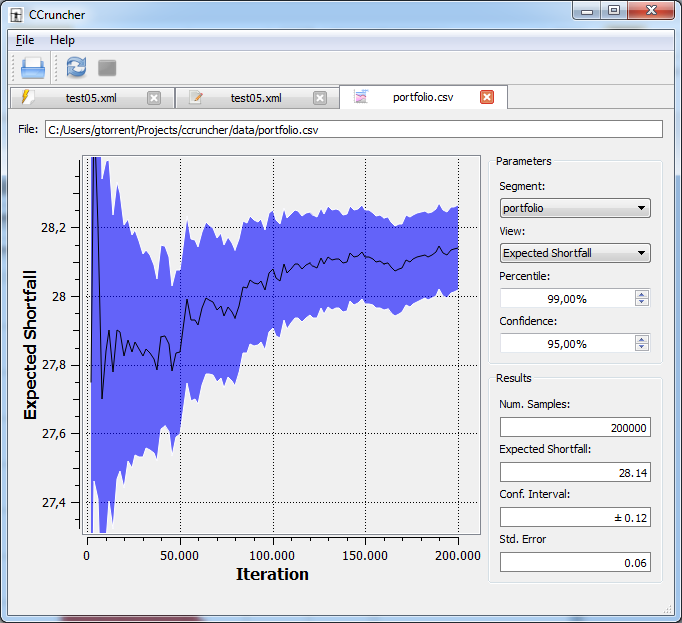
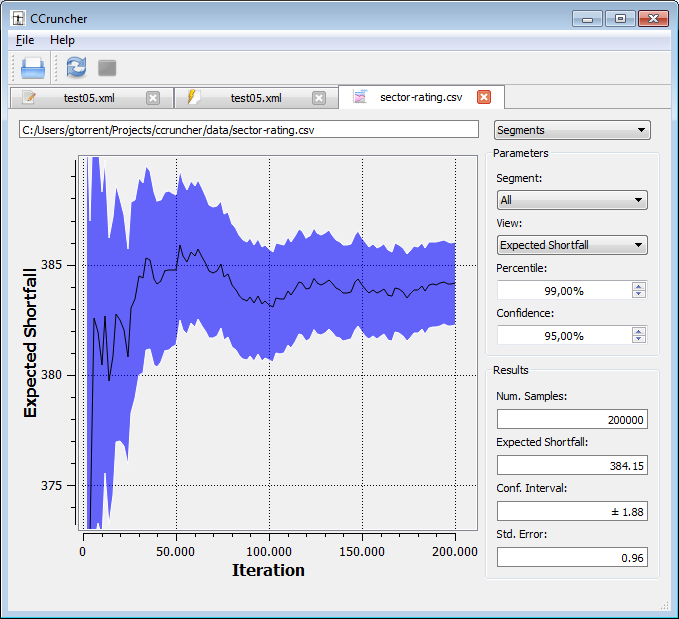
added drag-and-drop feature in gui + aggregation in html doc

diff --git a/doc/html/gstarted.html b/doc/html/gstarted.html
@@ -77,7 +77,7 @@
 
     <ol>
       <li><a href="#first_steps">First steps</a></li>
-      <li><a href="#segmentations">Using segmentations</a></li>
+      <li><a href="#analysis">Risk analysis</a></li>
       <li><a href="#macros">Using macros</a></li>
       <li><a href="#command_line">Using command line</a></li>
       <li><a href="#flying_solo">Flying solo</a></li>
@@ -89,7 +89,7 @@
     <a name="first_steps"></a>
     <h2>1. First steps</h2>
     <p>
-      Follow these steps to install CCruncher and discover its capabilities.
+      Follow these steps to install CCruncher and perform your first simulation.
     </p>
     <ol>
       <li>
@@ -111,10 +111,7 @@
         Open file <code>samples/test05.xml</code>.
       </li>
       <li>
-        Click on the 'Edit' button, or the 'Edit' icon, to view the input file content.
-      </li>
-      <li>
-        Return to the simulation tab.
+        Click on the 'Monte Carlo' button.
       </li>
       <li>
         Set <code>data/</code> as output directory.
@@ -127,64 +124,54 @@
       </li>
       <li>
         Open a file browser and review the content of the <code>data/</code> directory.
-        Observe the new file named <code>portfolio.csv</code>. Open it and inspect
-        its content. The values are the simulated portfolio losses.
-      </li>
-      <li>
-        Return to CCruncher.
-      </li>
-      <li>
-        Open output data files clicking the links in the trace, or clicking the 
-        'Data analysis' icon, or using the 'File > Open file' dialog.
-      </li>
-      <li>
-        Do your risk analysis.
+        Observe the output files named <code>portfolio.csv</code> and 
+        <code>sector-rating.csv</code>. Open it and inspect its content. 
+        The values are the simulated portfolio losses. The output file format
+        is described <a href="ofileref.html#segmentation">here</a>.
       </li>
     </ol>
 
 <!-- ==================================================== -->
-<!--    segmentations                                     -->
+<!--    analysis                                          -->
 <!-- ==================================================== -->
-    <a name="segmentations"></a>
-    <h2>2. Using segmentations</h2>
+    <a name="analysis"></a>
+    <h2>2. Risk analysis</h2>
     <p>
-      Segmentations are a powerful mechanism to define sub-portfolios.
-      This feature can be used to disaggregate the risk of the whole
-      portfolio. CCruncher simulates all the sub-portfolios defined 
-      in the <code>&lt;segmentations&gt;</code> section of the input
-      file and creates an output file for each one of them.
+      Output files contain the simulated portfolio and sub-portfolios 
+      losses. The <a href="ccruncher.pdf">technical document</a> explains 
+      how to use these simulated values to compute the Expected Loss (EL), 
+      Value at Risk (VaR), Expected Shortfall(ES), and how to disaggregate 
+      by sub-portfolios these risk measures. We encourage using your 
+      preferred data analysis tool (Excel, R, SAS, SPSS, etc.) to compute 
+      these values using the simulated losses. The following lines explain
+      how you can do the credit risk analysis using CCruncher:
     </p>
     <ol>
       <li>
-        Open file <code>samples/test03.xml</code>.
+        Open <code>sector-rating.csv</code> output data file. You can use 
+        the 'File > Open file' dialog, or click the output file link in the 
+        simulation trace, or click the 'Data analysis' icon.
       </li>
       <li>
-        Set <code>data/</code> as output directory.
+        CCruncher display the analysis tab. The top-right combobox 
+        indicates the analysis mode. There are two analysis modes:
+        'Segmentation' and 'Segments'.
       </li>
       <li>
-        Edit the input file pressing the 'Edit' button.
+        Set the 'Segmentation' mode. In this mode, CCruncher displays
+        the risk disaggregation when there is more than a segment
+        defined. The pie chart values indicate the percentage of risk 
+        attributable to the given sub-portfolio (right-click or ctrl-C
+        to copy values to clipboard). The 'Results' section shows the 
+        whole portfolio risk measure.
       </li>
       <li>
-        Locate the <code>&lt;segmentations&gt;</code> sections.
-      </li>
-      <li>
-        Enable the 'offices' segmentation.
-      </li>
-      <li>
-        Save the changes made in input file.
-      </li>
-      <li>
-        Click the 'Run' button, or the 'Run' icon, to execute the Monte Carlo simulation. 
-      </li>
-      <li>
-        Open a file browser and review the content of the <code>data/</code> directory.
-        Observe the new file named <code>offices.csv</code>. Open it and inspect its 
-        content. Each column is a segment of the segmentation 'offices'. The 'unassigned' 
-        segment appears because the obligor '100' isn't assigned to any segment of the 
-        'offices' segmentation.
-      </li>
-      <li>
-        Click the 'Data analysis' icon to analyze the risk of the segmentations.
+        Set the 'Segments' mode. In this mode, CCruncher performs 
+        the risk analysis of the indicated segment. If you are analyzing 
+        a segment/sub-portfolio distinct than the whole portfolio, remain 
+        that risk measures distinct than EL aren't additives. The curve plot 
+        displays the risk measure evolution depending on the number of samples
+        (right-click or ctrl-C to copy values to clipboard).
       </li>
     </ol>
     
@@ -200,13 +187,7 @@
     </p>
     <ol>
       <li>
-        Open file <code>samples/test03.xml</code>.
-      </li>
-      <li>
-        Set <code>data/</code> as output directory.
-      </li>
-      <li>
-        Edit the input file pressing the 'Edit' button.
+        Open file <code>samples/test05.xml</code>.
       </li>
       <li>
         Create a new define adding the following line into the <code>&lt;defines&gt;</code> tag:<br/>
@@ -218,6 +199,12 @@
       </li>
       <li>
         Save the changes made in input file.
+      </li>
+      <li>
+        Click on the 'Monte Carlo' button. 
+      </li>
+      <li>
+        Set <code>data/</code> as output directory.
       </li>
       <li>
         Click on the 'Set ...' defines button.
@@ -334,7 +321,7 @@ file if at all possible.
         Copyright &copy; 2004-2013 - <a href="mailto:gtorrent@ccruncher.net">CCruncher</a>
       </span>
       <span id="modified">
-        Last modified: 06-Sep-2013
+        Last modified: 09-Sep-2013
       </span>
     </div>
 

diff --git a/doc/html/ifileref.html b/doc/html/ifileref.html
@@ -768,7 +768,7 @@
 
     <p>
       This section shows how to define portfolio segmentations. Segmentations
-      allow you to analyze your portfolio's risk according to a hierarchical organization
+      allow you to disaggregate your portfolio's risk according to a hierarchical organization
       or another type of classification. Segmentation is composed of segments.
       There are two types of segmentations depending on the segments components:
     </p>
@@ -1255,7 +1255,7 @@
         Copyright &copy; 2004-2013 - <a href="mailto:gtorrent@ccruncher.net">CCruncher</a>
       </span>
       <span id="modified">
-        Last modified: 06-Sep-2013
+        Last modified: 09-Sep-2013
       </span>
     </div>
 

diff --git a/doc/html/screenshots.html b/doc/html/screenshots.html
@@ -79,6 +79,9 @@
         <td><a href="screen3.png"><img src="screen3.png" width="350" alt="screenshot3"/></a></td>
         <td><a href="screen4.png"><img src="screen4.png" width="350" alt="screenshot4"/></a></td>
       </tr>
+      <tr>
+        <td><a href="screen5.png"><img src="screen5.png" width="350" alt="screenshot5"/></a></td>
+      </tr>
     </table>
 
     <div id="page-footer">
@@ -86,7 +89,7 @@
         Copyright &copy; 2004-2013 - <a href="mailto:gtorrent@ccruncher.net">CCruncher</a>
       </span>
       <span id="modified">
-        Last modified: 06-Sep-2013
+        Last modified: 09-Sep-2013
       </span>
     </div>
 

diff --git a/doc/html/features.html b/doc/html/features.html
@@ -142,7 +142,7 @@
         <td class="c2">fixed, beta, uniform</td>
       </tr>
       <tr class="b">
-        <td class="c1">Portfolio disaggregation</td>
+        <td class="c1">Risk disaggregation</td>
         <td class="c2">yes</td>
       </tr>
       <tr class="a">
@@ -255,7 +255,7 @@
         Copyright &copy; 2004-2013 - <a href="mailto:gtorrent@ccruncher.net">CCruncher</a>
       </span>
       <span id="modified">
-        Last modified: 06-Sep-2013
+        Last modified: 09-Sep-2013
       </span>
     </div>
 

diff --git a/src/gui/MainWindow.cpp b/src/gui/MainWindow.cpp
@@ -43,6 +43,7 @@ ccruncher_gui::MainWindow::MainWindow(const QMap<QString, QVariant> &map, QWidge
   network(this)
 {
   ui->setupUi(this);
+  setAcceptDrops(true);
 
   // setting mdi area
   mdiArea = new QMdiArea;
@@ -95,6 +96,38 @@ void ccruncher_gui::MainWindow::closeEvent(QCloseEvent *event)
   } else {
     //TODO: save settings
     event->accept();
+  }
+}
+
+//===========================================================================
+// drag-and-drop event
+// see http://qt-project.org/wiki/Drag_and_Drop_of_files
+//===========================================================================
+void ccruncher_gui::MainWindow::dragEnterEvent(QDragEnterEvent* event) {
+  // if some actions should not be usable, like move, this code must be adopted
+  event->acceptProposedAction();
+}
+
+void ccruncher_gui::MainWindow::dragMoveEvent(QDragMoveEvent* event) {
+  // if some actions should not be usable, like move, this code must be adopted
+  event->acceptProposedAction();
+}
+
+void ccruncher_gui::MainWindow::dragLeaveEvent(QDragLeaveEvent* event) {
+  event->accept();
+}
+
+void ccruncher_gui::MainWindow::dropEvent(QDropEvent* event)
+{
+  const QMimeData* mimeData = event->mimeData();
+
+  // check for our needed mime type, here a file or a list of files
+  if (mimeData->hasUrls()) {
+    QList<QUrl> urlList = mimeData->urls();
+    // extract the local paths of the files
+    for (int i=0; i<urlList.size() && i<32; ++i) {
+      openFile(urlList.at(i));
+    }
   }
 }
 
@@ -172,7 +205,7 @@ void ccruncher_gui::MainWindow::selectFile()
     QUrl url = QUrl::fromLocalFile(filename);
     if (!filename.toLower().endsWith("csv")) {
       url.setPath(url.toLocalFile());
-      url.setScheme("exec");
+      //url.setScheme("exec");
     }
     openFile(url);
   }

diff --git a/src/gui/MainWindow.hpp b/src/gui/MainWindow.hpp
@@ -29,6 +29,10 @@
 #include <QUrl>
 #include <QMap>
 #include <QCloseEvent>
+#include <QDragEnterEvent>
+#include <QDragMoveEvent>
+#include <QDragLeaveEvent>
+#include <QDropEvent>
 #include <QToolBar>
 #include <QNetworkAccessManager>
 #include <QNetworkReply>
@@ -67,6 +71,14 @@ class MainWindow : public QMainWindow
 
     // close event
     void closeEvent(QCloseEvent *event);
+     // this event is called when the mouse enters the widgets area during a drag/drop operation
+    void dragEnterEvent(QDragEnterEvent *event);
+    // this event is called when the mouse moves inside the widgets area during a drag/drop operation
+    void dragMoveEvent(QDragMoveEvent *event);
+    // this event is called when the mouse leaves the widgets area during a drag/drop operation
+    void dragLeaveEvent(QDragLeaveEvent *event);
+    // this event is called when the drop operation is initiated at the widget
+    void dropEvent(QDropEvent *event);
 
   public:
 
